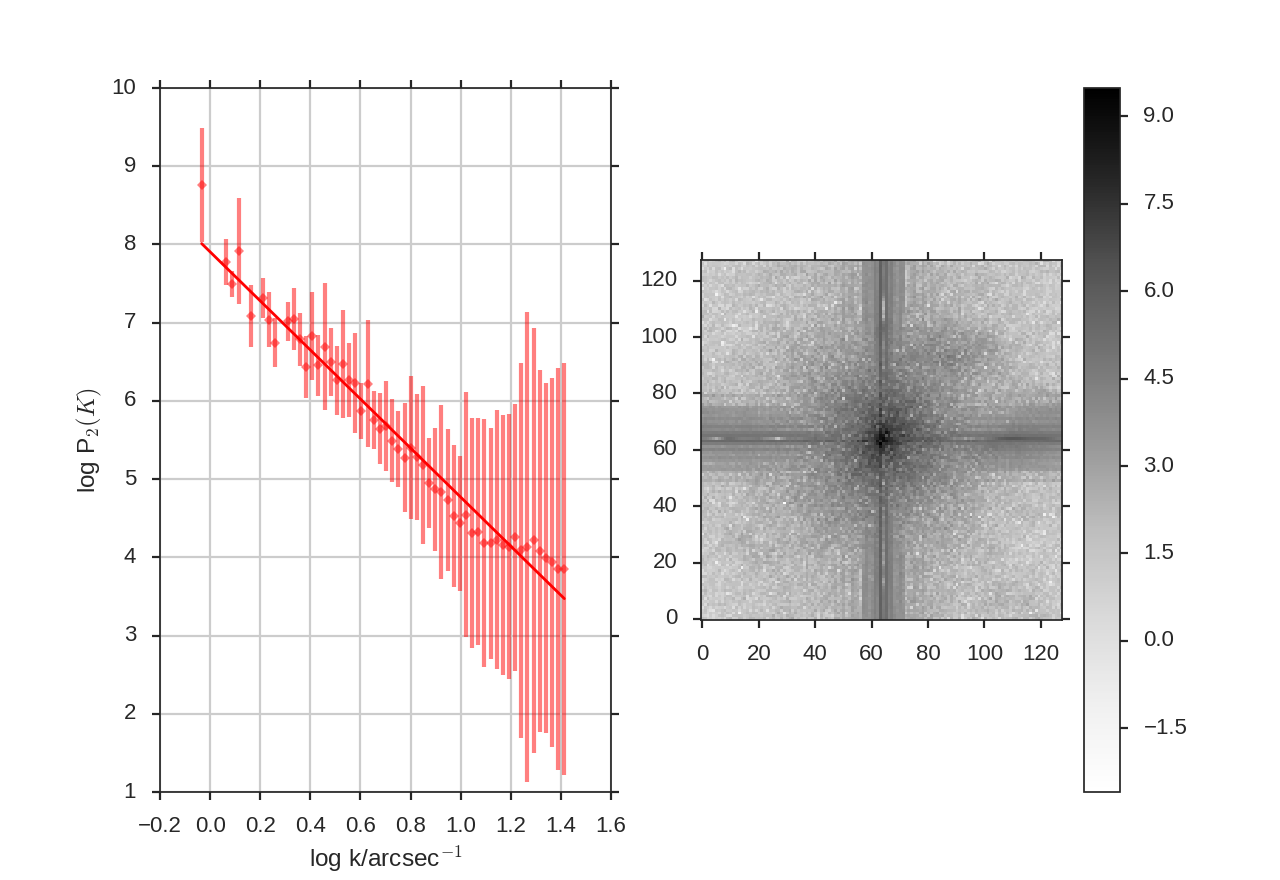
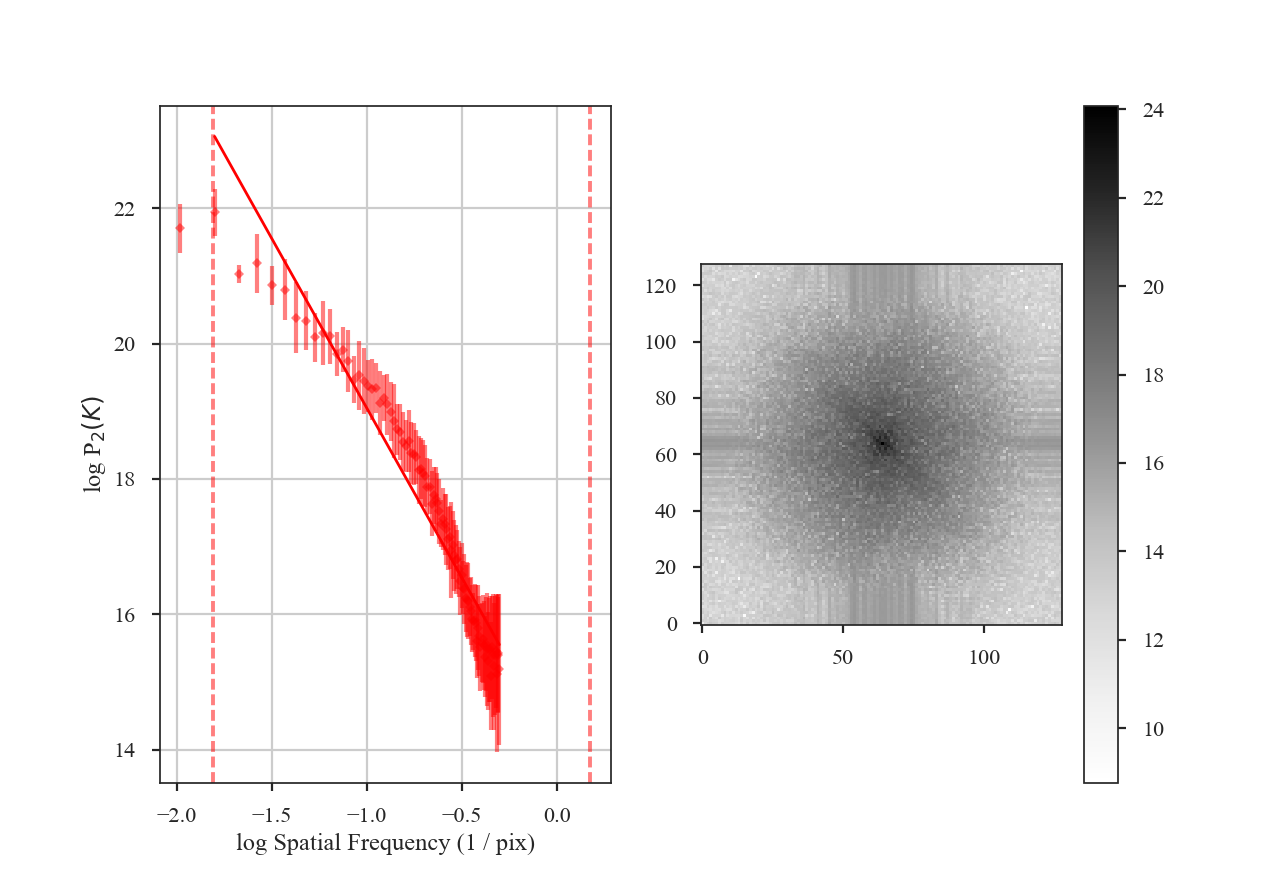
Update to MVC (phys units) and the tutorial; minor change for PowerSpectrum

diff --git a/turbustat/statistics/mvc/mvc.py b/turbustat/statistics/mvc/mvc.py
@@ -32,7 +32,8 @@ class MVC(BaseStatisticMixIn, StatisticBase_PSpec2D):
 
     __doc__ %= {"dtypes": " or ".join(common_types + twod_types)}
 
-    def __init__(self, centroid, moment0, linewidth, header=None):
+    def __init__(self, centroid, moment0, linewidth, header=None,
+                 distance=None):
 
         # data property not used here
         self.no_data_flag = True
@@ -50,6 +51,9 @@ class MVC(BaseStatisticMixIn, StatisticBase_PSpec2D):
         else:
             self._centroid = input_data(centroid, no_header=True)
             self.header = header
+
+        if distance is not None:
+            self.distance = distance
 
         self._moment0 = input_data(moment0, no_header=True)
         self._linewidth = input_data(linewidth, no_header=True)
@@ -117,8 +121,8 @@ class MVC(BaseStatisticMixIn, StatisticBase_PSpec2D):
         self._ps2D = np.abs(mvc_fft) ** 2.
 
     def run(self, verbose=False, save_name=None, logspacing=False,
-            return_stddev=True, low_cut=None, high_cut=0.5,
-            ang_units=False, unit=u.deg, use_wavenumber=False, **kwargs):
+            return_stddev=True, low_cut=None, high_cut=None,
+            xunit=u.pix**-1, use_wavenumber=False, **fit_kwargs):
         '''
         Full computation of MVC. For fitting parameters and radial binning
         options, see `~turbustat.statistics.base_pspec2.StatisticBase_PSpec2D`.
@@ -137,9 +141,7 @@ class MVC(BaseStatisticMixIn, StatisticBase_PSpec2D):
             Low frequency cut off in frequencies used in the fitting.
         high_cut : float, optional
             High frequency cut off in frequencies used in the fitting.
-        ang_units : bool, optional
-            Convert frequencies to angular units using the given header.
-        unit : u.Unit, optional
+        xunit : u.Unit, optional
             Choose the angular unit to convert to when ang_units is enabled.
         use_wavenumber : bool, optional
             Plot the x-axis as the wavenumber rather than spatial frequency.
@@ -150,14 +152,13 @@ class MVC(BaseStatisticMixIn, StatisticBase_PSpec2D):
         self.compute_pspec()
         self.compute_radial_pspec(logspacing=logspacing,
                                   return_stddev=return_stddev)
-        self.fit_pspec(low_cut=low_cut, high_cut=high_cut,
-                       large_scale=0.5, **kwargs)
+        self.fit_pspec(low_cut=low_cut, high_cut=high_cut, **fit_kwargs)
 
         if verbose:
             print(self.fit.summary())
 
-            self.plot_fit(show=True, show_2D=True, ang_units=ang_units,
-                          unit=unit, save_name=save_name,
+            self.plot_fit(show=True, show_2D=True,
+                          xunit=xunit, save_name=save_name,
                           use_wavenumber=use_wavenumber)
             if save_name is not None:
                 import matplotlib.pyplot as p
@@ -187,18 +188,18 @@ class MVC_Distance(object):
         When enabled, the property arrays are weighted by the inverse
         squared of the error arrays.
     low_cut : int or float, optional
-        Set the cut-off for low spatial frequencies. Visually, below ~2
-        deviates from the power law (for the simulation set).
+        The lower frequency fitting limit. An array with 2 elements can be
+        passed to give separate lower limits for the datasets.
     high_cut : int or float, optional
-        Set the cut-off for high spatial frequencies. Values beyond the
-        size of the root grid are found to have no meaningful contribution
+        The upper frequency fitting limit. See `low_cut` above. Defaults to
+        0.5.
     logspacing : bool, optional
         Use logarithmically spaced bins in the 1D power spectrum.
     """
 
     def __init__(self, data1, data2, fiducial_model=None,
-                 weight_by_error=False, low_cut=None, high_cut=None,
-                 logspacing=False):
+                 weight_by_error=False, low_cut=None, high_cut=0.5 / u.pix,
+                 logspacing=False, phys_distance=None):
 
         # Create weighted or non-weighted versions
         if weight_by_error:
@@ -228,17 +229,17 @@ class MVC_Distance(object):
             self.mvc1 = fiducial_model
         else:
             self.mvc1 = MVC(centroid1, moment01, linewidth1,
-                            data1["centroid"][1])
+                            data1["centroid"][1], distance=phys_distance)
             self.mvc1.run(logspacing=logspacing, high_cut=high_cut[0],
                           low_cut=low_cut[0])
 
         self.mvc2 = MVC(centroid2, moment02, linewidth2,
-                        data2["centroid"][1])
+                        data2["centroid"][1], distance=phys_distance)
         self.mvc2.run(logspacing=logspacing, high_cut=high_cut[1],
                       low_cut=low_cut[1])
 
     def distance_metric(self, verbose=False, label1=None, label2=None,
-                        ang_units=False, unit=u.deg, save_name=None,
+                        xunit=u.deg, save_name=None,
                         use_wavenumber=False):
         '''
 
@@ -278,10 +279,10 @@ class MVC_Distance(object):
             import matplotlib.pyplot as p
 
             self.mvc1.plot_fit(show=False, color='b', label=label1, symbol='D',
-                               ang_units=ang_units, unit=unit,
+                               xunit=xunit,
                                use_wavenumber=use_wavenumber)
             self.mvc2.plot_fit(show=False, color='g', label=label2, symbol='o',
-                               ang_units=ang_units, unit=unit,
+                               xunit=xunit,
                                use_wavenumber=use_wavenumber)
             p.legend(loc='best')
 

diff --git a/turbustat/statistics/pspec_bispec/pspec_bispec.py b/turbustat/statistics/pspec_bispec/pspec_bispec.py
@@ -83,8 +83,6 @@ class PowerSpectrum(BaseStatisticMixIn, StatisticBase_PSpec2D):
             Low frequency cut off in frequencies used in the fitting.
         high_cut : float, optional
             High frequency cut off in frequencies used in the fitting.
-        ang_units : bool, optional
-            Convert frequencies to angular units using the given header.
         xunit : u.Unit, optional
             Choose the unit to convert the x-axis to in the plot.
         save_name : str,optional
@@ -132,8 +130,6 @@ class PSpec_Distance(object):
         Weights to apply to data2
     fiducial_model : PowerSpectrum
         Computed PowerSpectrum object. use to avoid recomputing.
-    ang_units : bool, optional
-        Convert the frequencies to angular units using the header.
     low_cut : float or np.ndarray, optional
         The lower frequency fitting limit. An array with 2 elements can be
         passed to give separate lower limits for the datasets.
@@ -187,10 +183,8 @@ class PSpec_Distance(object):
             Object or region name for data1
         label2 : str, optional
             Object or region name for data2
-        ang_units : bool, optional
-            Convert frequencies to angular units using the given header.
-        unit : u.Unit, optional
-            Choose the angular unit to convert to when ang_units is enabled.
+        xunit : u.Unit, optional
+            Choose the unit to convert the x-axis to in the plot.
         save_name : str,optional
             Save the figure when a file name is given.
         use_wavenumber : bool, optional

diff --git a/docs/tutorials/statistics/mvc_example.rst b/docs/tutorials/statistics/mvc_example.rst
@@ -36,9 +36,9 @@ We need to import the `~turbustat.statistics.MVC` code, along with a few other c
 
 Most statistics in TurbuStat require only a single data input. MVC requires *3*, as you can see in the last equation. The zeroth (integrated intensity), first (centroid), and second (velocity dispersion) moments of the data cube are needed:
 
-    >>> moment0 = fits.open("Design4_21_0_0_flatrho_0021_13co.moment0.fits")[0]  # doctest: +SKIP
-    >>> moment1 = fits.open("Design4_21_0_0_flatrho_0021_13co.centroid.fits")[0]  # doctest: +SKIP
-    >>> lwidth = fits.open("Design4_21_0_0_flatrho_0021_13co.linewidth.fits")[0]  # doctest: +SKIP
+    >>> moment0 = fits.open("Design4_flatrho_0021_00_radmc_moment0.fits")[0]  # doctest: +SKIP
+    >>> moment1 = fits.open("Design4_flatrho_0021_00_radmc_centroid.fits")[0]  # doctest: +SKIP
+    >>> lwidth = fits.open("Design4_flatrho_0021_00_radmc_linewidth.fits")[0]  # doctest: +SKIP
 
 The unnormalized centroid can be recovered by multiplying the normal centroid value by the zeroth moment. The line width array here is the square root of the velocity dispersion. These three arrays must be passed to `~turbustat.statistics.MVC`:
 
@@ -48,35 +48,104 @@ The header is read in from `moment1` to convert into angular scales. Alternative
 
 Calculating the power spectrum, radially averaging, and fitting a power-law are accomplished through the `~turbustat.statistics.MVC.run` command:
 
-    >>> mvc.run(verbose=True, ang_units=True, unit=u.arcsec)  # doctest: +SKIP
-                               OLS Regression Results
+    >>> mvc.run(verbose=True, xunit=u.pix**-1)  # doctest: +SKIP
+                                OLS Regression Results
     ==============================================================================
-    Dep. Variable:                      y   R-squared:                       0.967
-    Model:                            OLS   Adj. R-squared:                  0.966
-    Method:                 Least Squares   F-statistic:                     1504.
-    Date:                Wed, 05 Oct 2016   Prob (F-statistic):           4.69e-40
-    Time:                        17:12:36   Log-Likelihood:                 2.3737
-    No. Observations:                  54   AIC:                           -0.7474
-    Df Residuals:                      52   BIC:                             3.231
+    Dep. Variable:                      y   R-squared:                       0.941
+    Model:                            OLS   Adj. R-squared:                  0.941
+    Method:                 Least Squares   F-statistic:                     1425.
+    Date:                Mon, 10 Jul 2017   Prob (F-statistic):           1.46e-56
+    Time:                        16:34:01   Log-Likelihood:                -52.840
+    No. Observations:                  91   AIC:                             109.7
+    Df Residuals:                      89   BIC:                             114.7
     Df Model:                           1
     Covariance Type:            nonrobust
     ==============================================================================
-                     coef    std err          t      P>|t|      [95.0% Conf. Int.]
+                     coef    std err          t      P>|t|      [0.025      0.975]
     ------------------------------------------------------------------------------
-    const          2.5007      0.085     29.534      0.000         2.331     2.671
-    x1            -3.1349      0.081    -38.784      0.000        -3.297    -2.973
+    const         14.0317      0.103    136.541      0.000      13.827      14.236
+    x1            -5.0142      0.133    -37.755      0.000      -5.278      -4.750
     ==============================================================================
-    Omnibus:                        4.847   Durbin-Watson:                   1.042
-    Prob(Omnibus):                  0.089   Jarque-Bera (JB):                4.076
-    Skew:                           0.664   Prob(JB):                        0.130
-    Kurtosis:                       3.224   Cond. No.                         5.08
+    Omnibus:                        3.535   Durbin-Watson:                   0.129
+    Prob(Omnibus):                  0.171   Jarque-Bera (JB):                3.484
+    Skew:                          -0.468   Prob(JB):                        0.175
+    Kurtosis:                       2.796   Cond. No.                         4.40
     ==============================================================================
 
 .. image:: images/mvc_design4.png
 
-Note that `ang_units=True` requires a header to be given. The angular units the power-spectrum is shown in is set by `units`.
+The fit here is not optimal since the spectrum deviates from being a single power-law. In this case, the deviation is caused by the limited inertial range in the simulation from which this spectral-line data cube was created. We can specify `low_cut` and `high_cut` in frequency units to limit the fitting to the inertial range:
+
+    >>> mvc.run(verbose=True, xunit=u.pix**-1, low_cut=0.02 / u.pix, high_cut=0.1 / u.pix)  # doctest: +SKIP
+                                OLS Regression Results
+    ==============================================================================
+    Dep. Variable:                      y   R-squared:                       0.952
+    Model:                            OLS   Adj. R-squared:                  0.948
+    Method:                 Least Squares   F-statistic:                     255.9
+    Date:                Mon, 10 Jul 2017   Prob (F-statistic):           6.22e-10
+    Time:                        16:34:01   Log-Likelihood:                 10.465
+    No. Observations:                  15   AIC:                            -16.93
+    Df Residuals:                      13   BIC:                            -15.51
+    Df Model:                           1
+    Covariance Type:            nonrobust
+    ==============================================================================
+                     coef    std err          t      P>|t|      [0.025      0.975]
+    ------------------------------------------------------------------------------
+    const         16.7121      0.220     75.957      0.000      16.237      17.187
+    x1            -2.7357      0.171    -15.997      0.000      -3.105      -2.366
+    ==============================================================================
+    Omnibus:                        0.814   Durbin-Watson:                   2.077
+    Prob(Omnibus):                  0.666   Jarque-Bera (JB):                0.614
+    Skew:                          -0.445   Prob(JB):                        0.736
+    Kurtosis:                       2.564   Cond. No.                         13.5
+    ==============================================================================
+
+.. image:: images/mvc_design4_limitedfreq.png
+
+Note the drastic change in the slope! Specifying the correct fit region for the data you're using is critical for interpreting the results of the method.
+
+Breaks in the power-law behaviour in observations (and higher-resolution simulations) can result from differences in the physical processes dominating at those scales. To capture this behaviour, `MVC` can be passed a break point to enable fitting with a segmented linear model (`~turbustat.statistics.Lm_Seg`):
+
+    >>> mvc.run(verbose=True, xunit=u.pc**-1, low_cut=0.02 / u.pix, high_cut=0.4 / u.pix, brk=0.1 / u.pix, log_break=False)  # doctest: +SKIP
+                                OLS Regression Results
+    ==============================================================================
+    Dep. Variable:                      y   R-squared:                       0.994
+    Model:                            OLS   Adj. R-squared:                  0.994
+    Method:                 Least Squares   F-statistic:                     4023.
+    Date:                Mon, 10 Jul 2017   Prob (F-statistic):           1.50e-75
+    Time:                        16:41:34   Log-Likelihood:                 53.269
+    No. Observations:                  71   AIC:                            -98.54
+    Df Residuals:                      67   BIC:                            -89.49
+    Df Model:                           3
+    Covariance Type:            nonrobust
+    ==============================================================================
+                     coef    std err          t      P>|t|      [0.025      0.975]
+    ------------------------------------------------------------------------------
+    const         16.1749      0.094    172.949      0.000      15.988      16.362
+    x1            -3.1436      0.085    -36.870      0.000      -3.314      -2.973
+    x2            -5.0895      0.205    -24.855      0.000      -5.498      -4.681
+    x3            -0.0020      0.054     -0.037      0.970      -0.110       0.106
+    ==============================================================================
+    Omnibus:                        9.161   Durbin-Watson:                   1.074
+    Prob(Omnibus):                  0.010   Jarque-Bera (JB):                8.815
+    Skew:                          -0.747   Prob(JB):                       0.0122
+    Kurtosis:                       3.865   Cond. No.                         21.5
+    ==============================================================================
+
+.. image:: images/mvc_design4_breakfit.png
+
+`brk` is the initial guess at where the break point is. Here I've set it to near the extent of the inertial range of the simulation. `log_break` should be enabled if the given `brk` is already the log (base-10) value (since the fitting is done in log-space). The segmented linear model iteratively optimizes the location of the break point, trying to minimize the gap between the different components. This is the `x3` parameter above. The slopes of the components are `x1` and `x2`, but the second slope is defined *relative to the first slope* (i.e., if `x2=0`, the slopes of the components would be the same). The true slopes can be accessed through `mvc.slope` and `mvc.slope_err`. The location of the fitted break point is given by `mvc.brk`, and its uncertainty `mvc.brk_err`. If the fit does not find a good break point, it will revert to a linear fit without the break.
 
 Many of the techniques in TurbuStat are derived from two-dimensional power spectra. Because of this, the radial averaging and fitting code for these techniques are contained within a common base class, `~turbustat.statistics.base_pspec2.StatisticBase_PSpec2D`. Fitting options may be passed as keyword arguments to `~turbustat.statistics.MVC.run`. Alterations to the power-spectrum binning can be passed in `~turbustat.statistics.MVC.compute_radial_pspec`, after which the fitting routine (`~turbustat.statistics.MVC.fit_pspec`) may be run.
+
+Finally, the frequency units of the final plot (`xunit`) and the units of `low_cut` and `high_cut` can be given in angular units, as well as physical units when a distance is given. For example:
+
+    >>> mvc = MVC(centroid, moment0, lwidth, distance=500 * u.pc)  # doctest: +SKIP
+    >>> mvc.run(verbose=True, xunit=u.pc**-1, low_cut=0.02 / u.pix, high_cut=0.1 / u.pix)  # doctest: +SKIP
+
+.. image:: images/mvc_design4_physunits.png
+
+Alternatively, the fitting limits could be passed in units of `u.pc**-1`.
 
 References
 ----------
